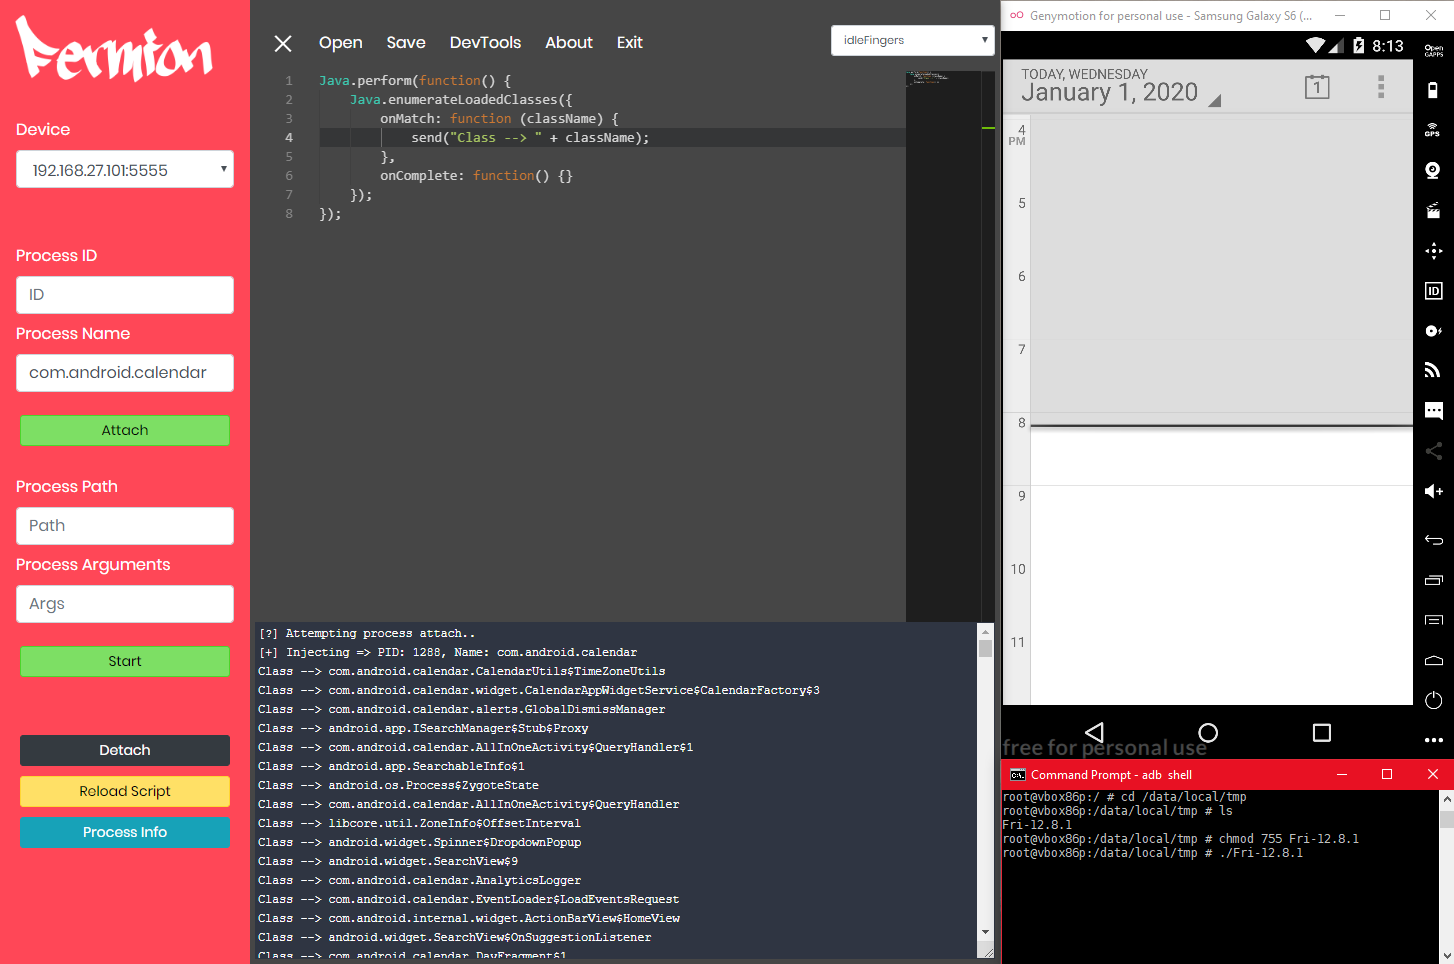
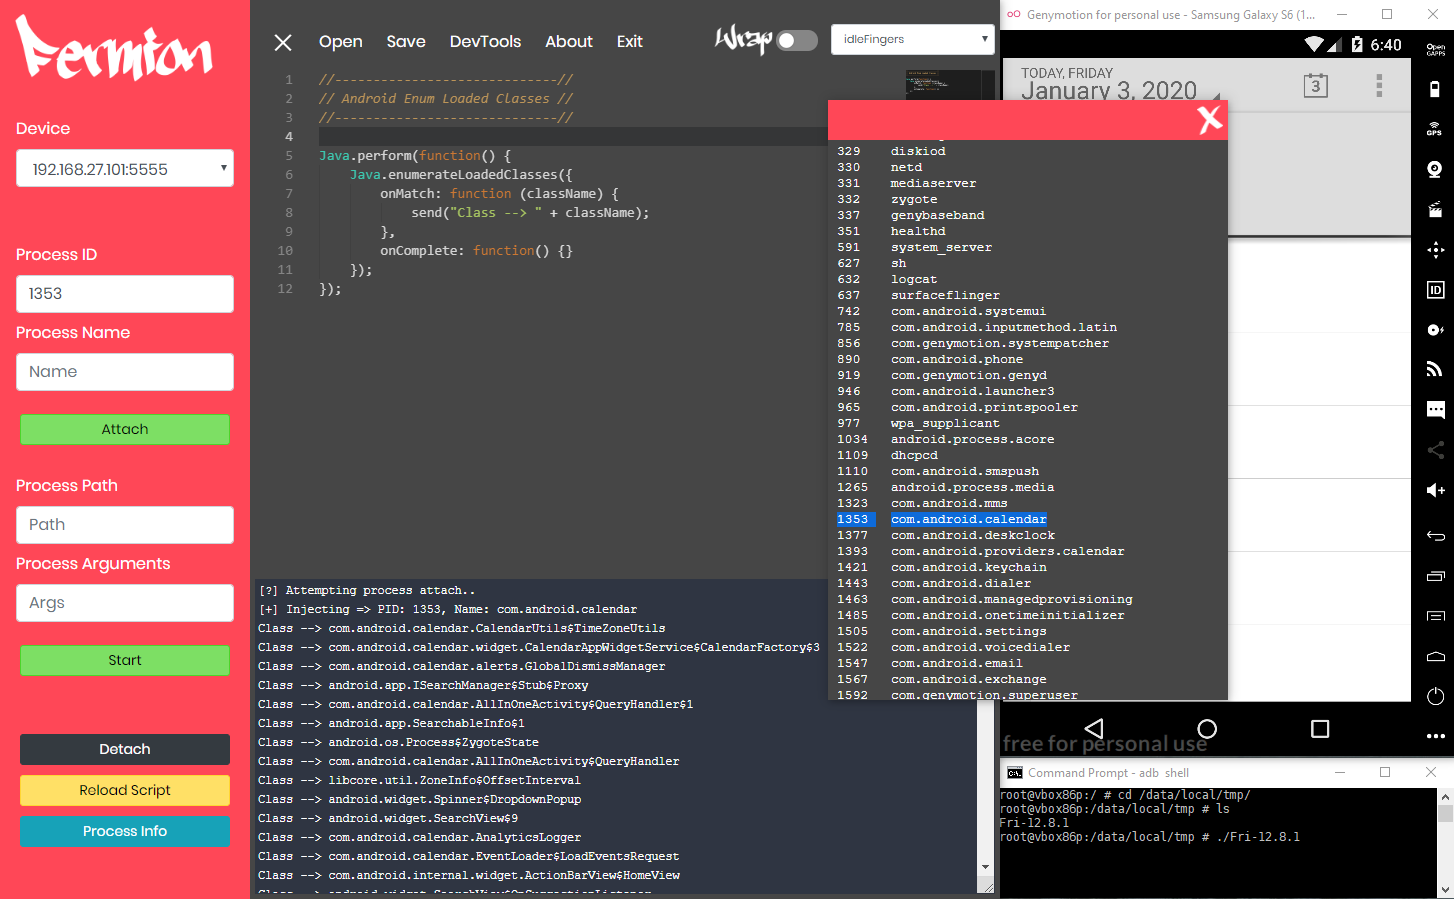
+Fermion-v09

diff --git a/Fermion/src/render.js b/Fermion/src/render.js
@@ -2,6 +2,7 @@
 //////////////////////////////////////////////////
 const electron = require('electron');
 const remote = electron.remote;
+const nativeImage = electron.nativeImage;
 const BrowserWindow = remote.BrowserWindow;
 const frida = require('frida');
 const path = require('path');
@@ -23,6 +24,7 @@ let session = null;
 let logMutex = new MutexPromise('48011b2b9a930ee19e26320e5adbffa2e309663c');
 let RunningLog = [];
 var deviceId = 'local';
+var currentFilePath = null;
 
 // Attach
 async function inject(AttachTo) {
@@ -232,7 +234,7 @@ document.getElementById("FridaProc").onclick = function () {
 		backgroundColor: '#464646',
 		webPreferences: { nodeIntegration: true }
 	})
-	ProcWin.loadURL(modalPath+"?deviceId="+deviceId);
+	ProcWin.loadURL(modalPath+"?deviceId="+btoa(deviceId));
 	ProcWin.once('ready-to-show', () => {
 		ProcWin.show();
 		ProcWin.focus();
@@ -294,8 +296,13 @@ document.getElementById("FermionOpen").onclick = function () {
 				if (err) {
 					appendFridaLog("[!] Error opening file: " + err.message);
 					return;
+				} else {
+					appendFridaLog("[+] File opened..");
+					appendFridaLog("    |-> Path: " + result.filePaths[0]);
 				}
 				MonacoCodeEditor.setValue(data);
+				// Set global filepath on success
+				currentFilePath = result.filePaths[0];
 			});
 		}
 	}).catch(err =>{
@@ -315,7 +322,12 @@ document.getElementById("FermionSave").onclick = function () {
 				if (err) {
 					appendFridaLog("[!] Error saving file: " + err.message)
 					return;
+				} else {
+					appendFridaLog("[+] File saved..");
+					appendFridaLog("    |-> Path: " + result.filePath);
 				}
+				// Set global filepath on success
+				currentFilePath = result.filePath;
 			});
 		}
 	}).catch(err =>{
@@ -379,6 +391,15 @@ function setMonacoTheme() {
 		monaco.editor.setTheme("vs-dark");
 	} else if (theme == "VSCode-HighContrast") {
 		monaco.editor.setTheme("hc-black");
+	}
+}
+
+document.getElementById("FermionMonacoWrap").onclick = function () {
+	var wrapState = document.getElementById("FermionMonacoWrap");
+	if (wrapState.checked == true) {
+		MonacoCodeEditor.updateOptions({ wordWrap: "on" });
+	} else {
+		MonacoCodeEditor.updateOptions({ wordWrap: "off" });
 	}
 }
 
@@ -447,8 +468,38 @@ var LocalLoadLang = function (url, method) {
 document.addEventListener("keydown", function (e) {
 	if ((window.navigator.platform.match("Mac") ? e.metaKey : e.ctrlKey) && e.keyCode == 83) {
 		e.preventDefault();
-		// Trigger the save function
-		document.getElementById("FermionSave").click();
+
+		// Do we currently have a known file path?
+		if (currentFilePath == null) {
+			// Trigger the save function
+			document.getElementById("FermionSave").click();
+		} else {
+			// Overwrite known file
+			dialog.showMessageBox(
+				{
+					type: "warning",
+					buttons: ["Yes", "No"],
+					defaultId: 1,
+					title: "Save File",
+					message: "Overwrite existing file?",
+					detail: currentFilePath,
+					cancelId: 1,
+				}
+			).then(result => {
+				if (result.response == 0) {
+					content = MonacoCodeEditor.getValue();
+					fs.writeFile(currentFilePath, content, (err) => {
+						if (err) {
+							appendFridaLog("[!] Error saving file: " + err.message);
+							appendFridaLog("    |-> Path: " + currentFilePath);
+						} else {
+							appendFridaLog("[+] File saved..");
+							appendFridaLog("    |-> Path: " + currentFilePath);
+						}
+					})
+				}
+			})
+		}
 	}
 }, false);
 

diff --git a/Examples/DeviceIoControl.js b/Examples/DeviceIoControl.js
@@ -1,0 +1,41 @@
+//-------------------------//
+// Hooking DeviceIoControl //
+//-------------------------//
+
+// Native function pointers
+//-----------------------
+var pDeviceIoControl = Module.findExportByName('Kernel32.dll', 'DeviceIoControl')
+
+// Hooks
+//-----------------------
+Interceptor.attach(pDeviceIoControl, {
+	onEnter: function (args) {
+        this.hDevice = args[0];
+        this.dwIoControlCode = args[1];
+        this.lpInBuffer = args[2];
+        this.nInBufferSize = args[3];
+        this.lpOutBuffer = args[4];
+        this.nOutBufferSize = args[5];
+        this.lpBytesReturned = args[6];
+        this.lpOverlapped = args[7];
+	},
+	onLeave: function (retval) {
+        send("\n[+] DeviceIoControl Success == " + ((retval.toInt32() > 0) ? "true":"false"));
+        send("    |-> hDevice         : " + this.hDevice);
+        send("    |-> dwIoControlCode : " + this.dwIoControlCode);
+        send("    |-> lpInBuffer      : " + this.lpInBuffer);
+        send("    |-> nInBufferSize   : " + this.nInBufferSize);
+        send("    |-> lpOutBuffer     : " + this.nOutBufferSize);
+        send("    |-> lpBytesReturned : " + this.lpBytesReturned);
+        send("    |-> lpOverlapped    : " + this.lpOverlapped);
+
+        // If buff in/out, hexdump
+        if (parseInt(this.nInBufferSize) > 0) {
+            send("    |-> InBuffer        :\n" + hexdump(this.lpInBuffer, {length:parseInt(this.nInBufferSize)}));
+        }
+        
+        if (parseInt(this.nOutBufferSize) > 0) {
+            send("    |-> OutBuffer      :\n" + hexdump(this.lpInBuffer, {length:parseInt(this.nOutBufferSize)}));
+        }
+    }
+});

diff --git a/Fermion/assets/css/frida.css b/Fermion/assets/css/frida.css
@@ -464,3 +464,48 @@ textarea#FridaOut {
     background-color: #4dd42b;
     border-color: #45be27;
 }
+
+/* ---------------------------------------------------
+    SLIDER
+----------------------------------------------------- */
+
+input[type="checkbox"].slider{
+	font-size: 14px;
+	-webkit-appearance: none;
+	   -moz-appearance: none;
+	        appearance: none;
+	width: 3em;
+	height: 1.5em;
+	background: rgb(134, 134, 134);
+	border-radius: 3em;
+	position: relative;
+	cursor: pointer;
+	outline: none;
+	-webkit-transition: all .2s ease-in-out;
+    transition: all .2s ease-in-out;
+    vertical-align: middle;
+  }
+  
+  input[type="checkbox"].slider:checked{
+    background: #ff4757;
+  }
+  
+  input[type="checkbox"].slider:after{
+	position: absolute;
+	content: "";
+	width: 1.5em;
+	height: 1.5em;
+	border-radius: 50%;
+	background: #fff;
+	-webkit-box-shadow: 0 0 .25em rgba(0,0,0,.3);
+	        box-shadow: 0 0 .25em rgba(0,0,0,.3);
+	-webkit-transform: scale(.7);
+	        transform: scale(.7);
+	left: 0;
+	-webkit-transition: all .2s ease-in-out;
+    transition: all .2s ease-in-out;
+  }
+  
+  input[type="checkbox"].slider:checked:after{
+    left: calc(100% - 1.5em);
+  }

diff --git a/Fermion/src/proc.html b/Fermion/src/proc.html
@@ -86,9 +86,34 @@
 		url = global.location;
 		deviceId = new URL(url).searchParams.get('deviceId');
 
+		// Retrieve device list
+		async function getDeviceList() {
+			var dm = await frida.getDeviceManager();
+			var dev = await dm.enumerateDevices();
+			return dev;
+		}
+
+		// There is a bug in the latest Frida, a delay in the device
+		// listing for non-default entries. All we do here is try 
+		// three times and sleep 1000ms.
+		// Reff: https://github.com/frida/frida/issues/1111
+		const sleep = (milliseconds) => {
+			return new Promise(resolve => setTimeout(resolve, milliseconds))
+		}
+
 		// Populate poc list
 		async function getProcList() {
-			let currentDevice = await frida.getDevice(deviceId);
+			// Make sure the device list has updated
+			if (atob(deviceId) != "local") {
+				for (i = 0; i < 3; i++) {
+					var dev = await getDeviceList();
+					if (dev.length > 2) {
+						break;
+					}
+					await sleep(1000);
+				}
+			}
+			let currentDevice = await frida.getDevice(atob(deviceId));
 			let Applications = await currentDevice.enumerateProcesses();
 			return Applications;
 		}

diff --git a/Fermion/src/frida.html b/Fermion/src/frida.html
@@ -117,6 +117,11 @@
 								</li>
 							</ul>
 
+							<div style="height: 80%; -webkit-app-region: no-drag; padding-bottom: 10px;">
+								<img src="../assets/img/wrap.png" width=50% height=50% style="-webkit-app-region: drag;">
+								<input type="checkbox" class="slider" id="FermionMonacoWrap">
+							</div>
+
 							<div class="form-group" style="padding-top: 5px;height: 80%">
 								<select class="form-control form-control-sm"
 									style="-webkit-app-region: no-drag; font-size: 0.7rem !important;"
@@ -200,7 +205,7 @@
 			var editor = monaco.editor.create(document.getElementById('container'), {
 				value: [
 					'//-------------------------------------------//',
-					'//              Fermion v0.8                 //',
+					'//              Fermion v0.9                 //',
 					'//                                    ~b33f  //',
 					'//-------------------------------------------//',
 					'',

diff --git a/Examples/AndroidEnumerateLoadedClasses.js b/Examples/AndroidEnumerateLoadedClasses.js
@@ -1,0 +1,12 @@
+//-----------------------------//
+// Android Enum Loaded Classes //
+//-----------------------------//
+
+Java.perform(function() {
+    Java.enumerateLoadedClasses({
+        onMatch: function (className) {
+            send("Class --> " + className);
+        },
+        onComplete: function() {}
+    });
+});
